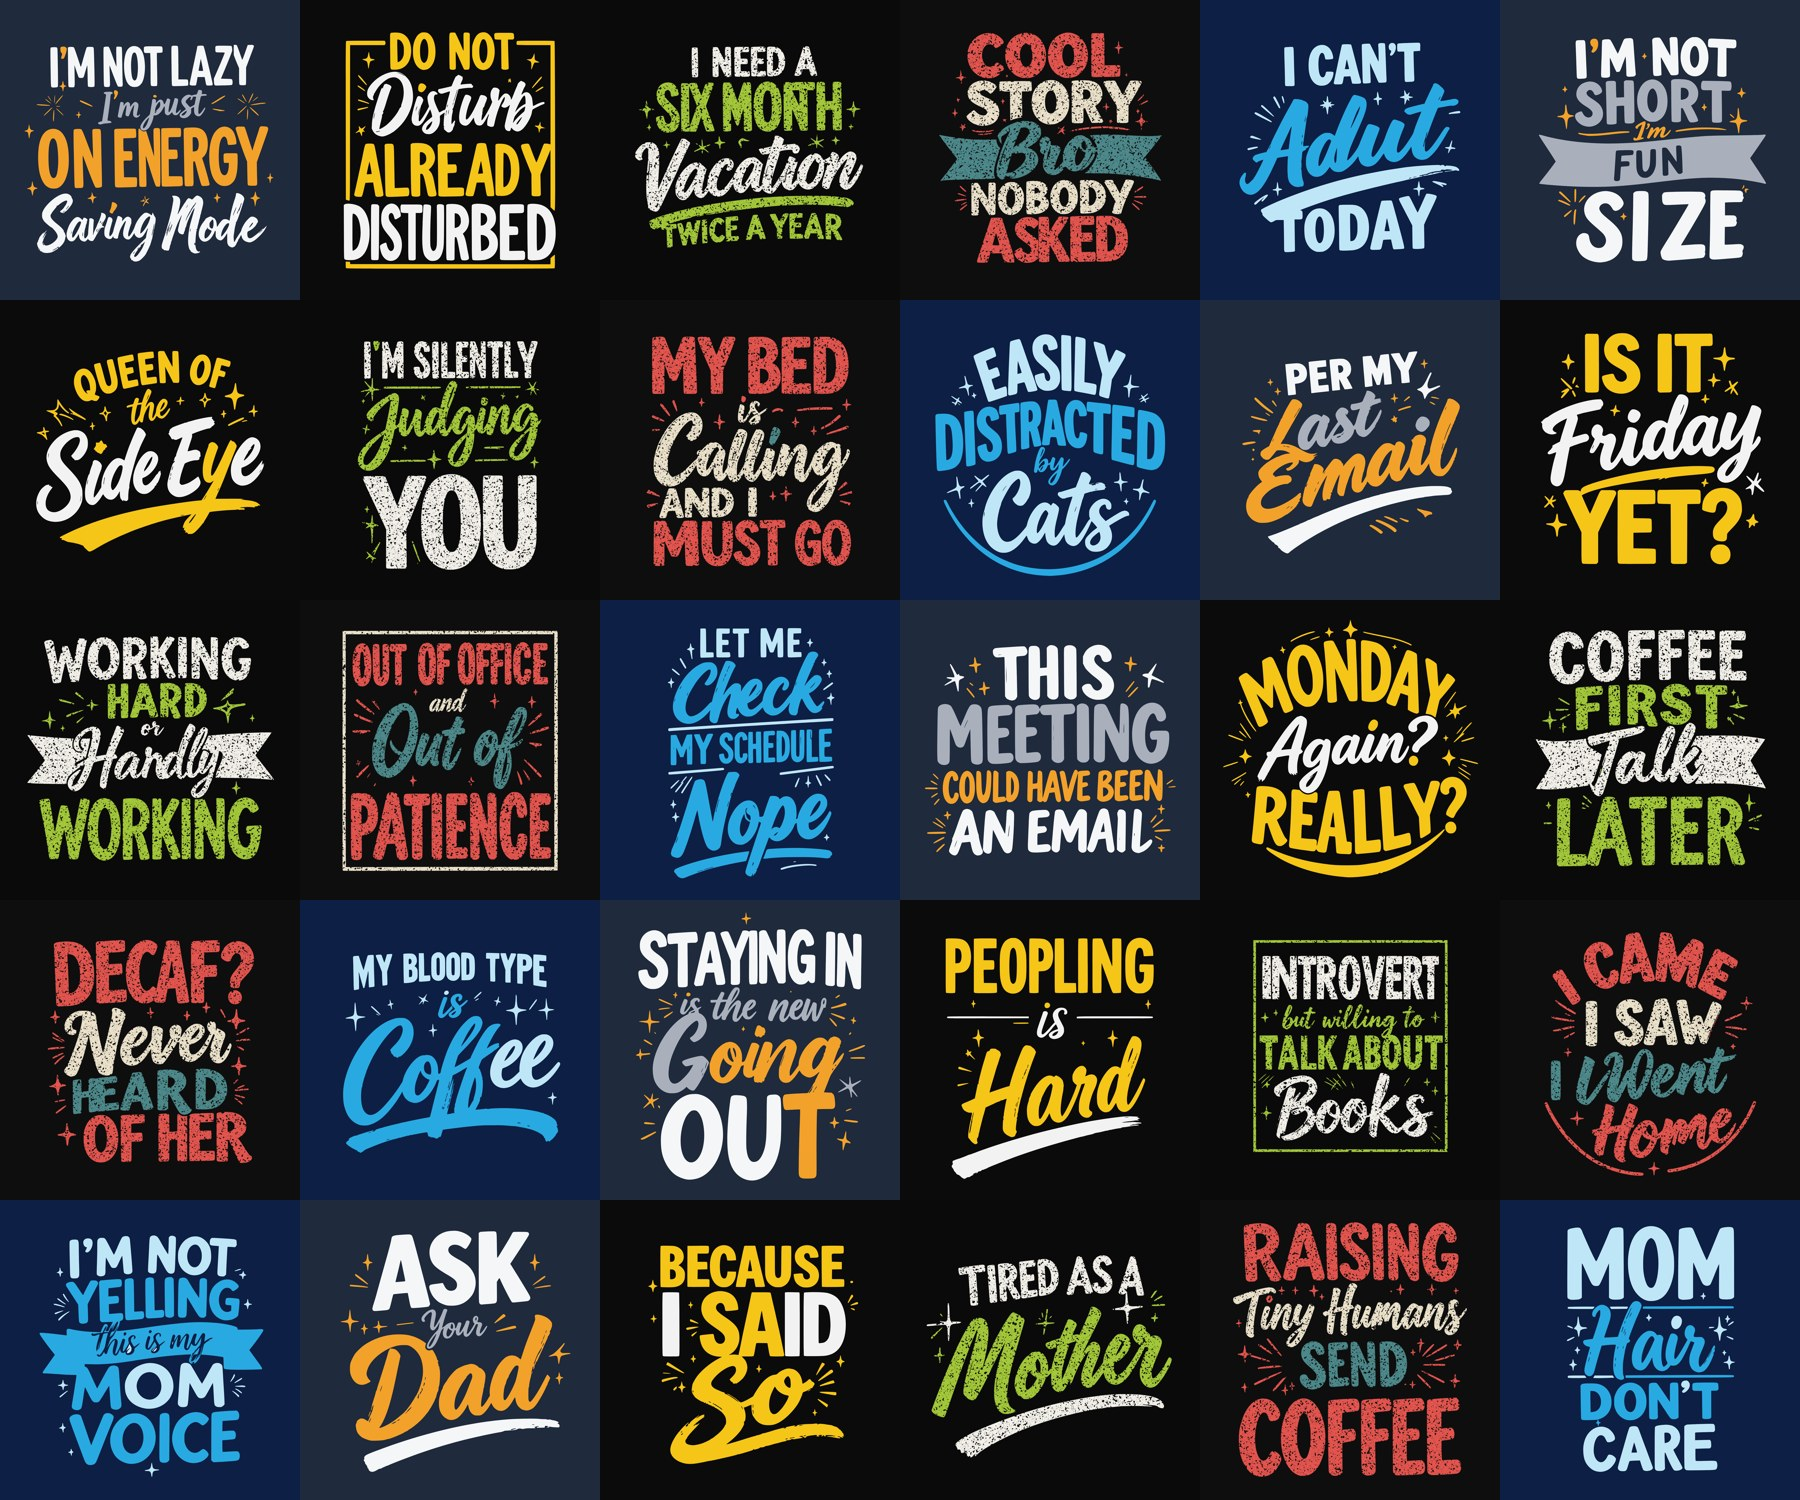
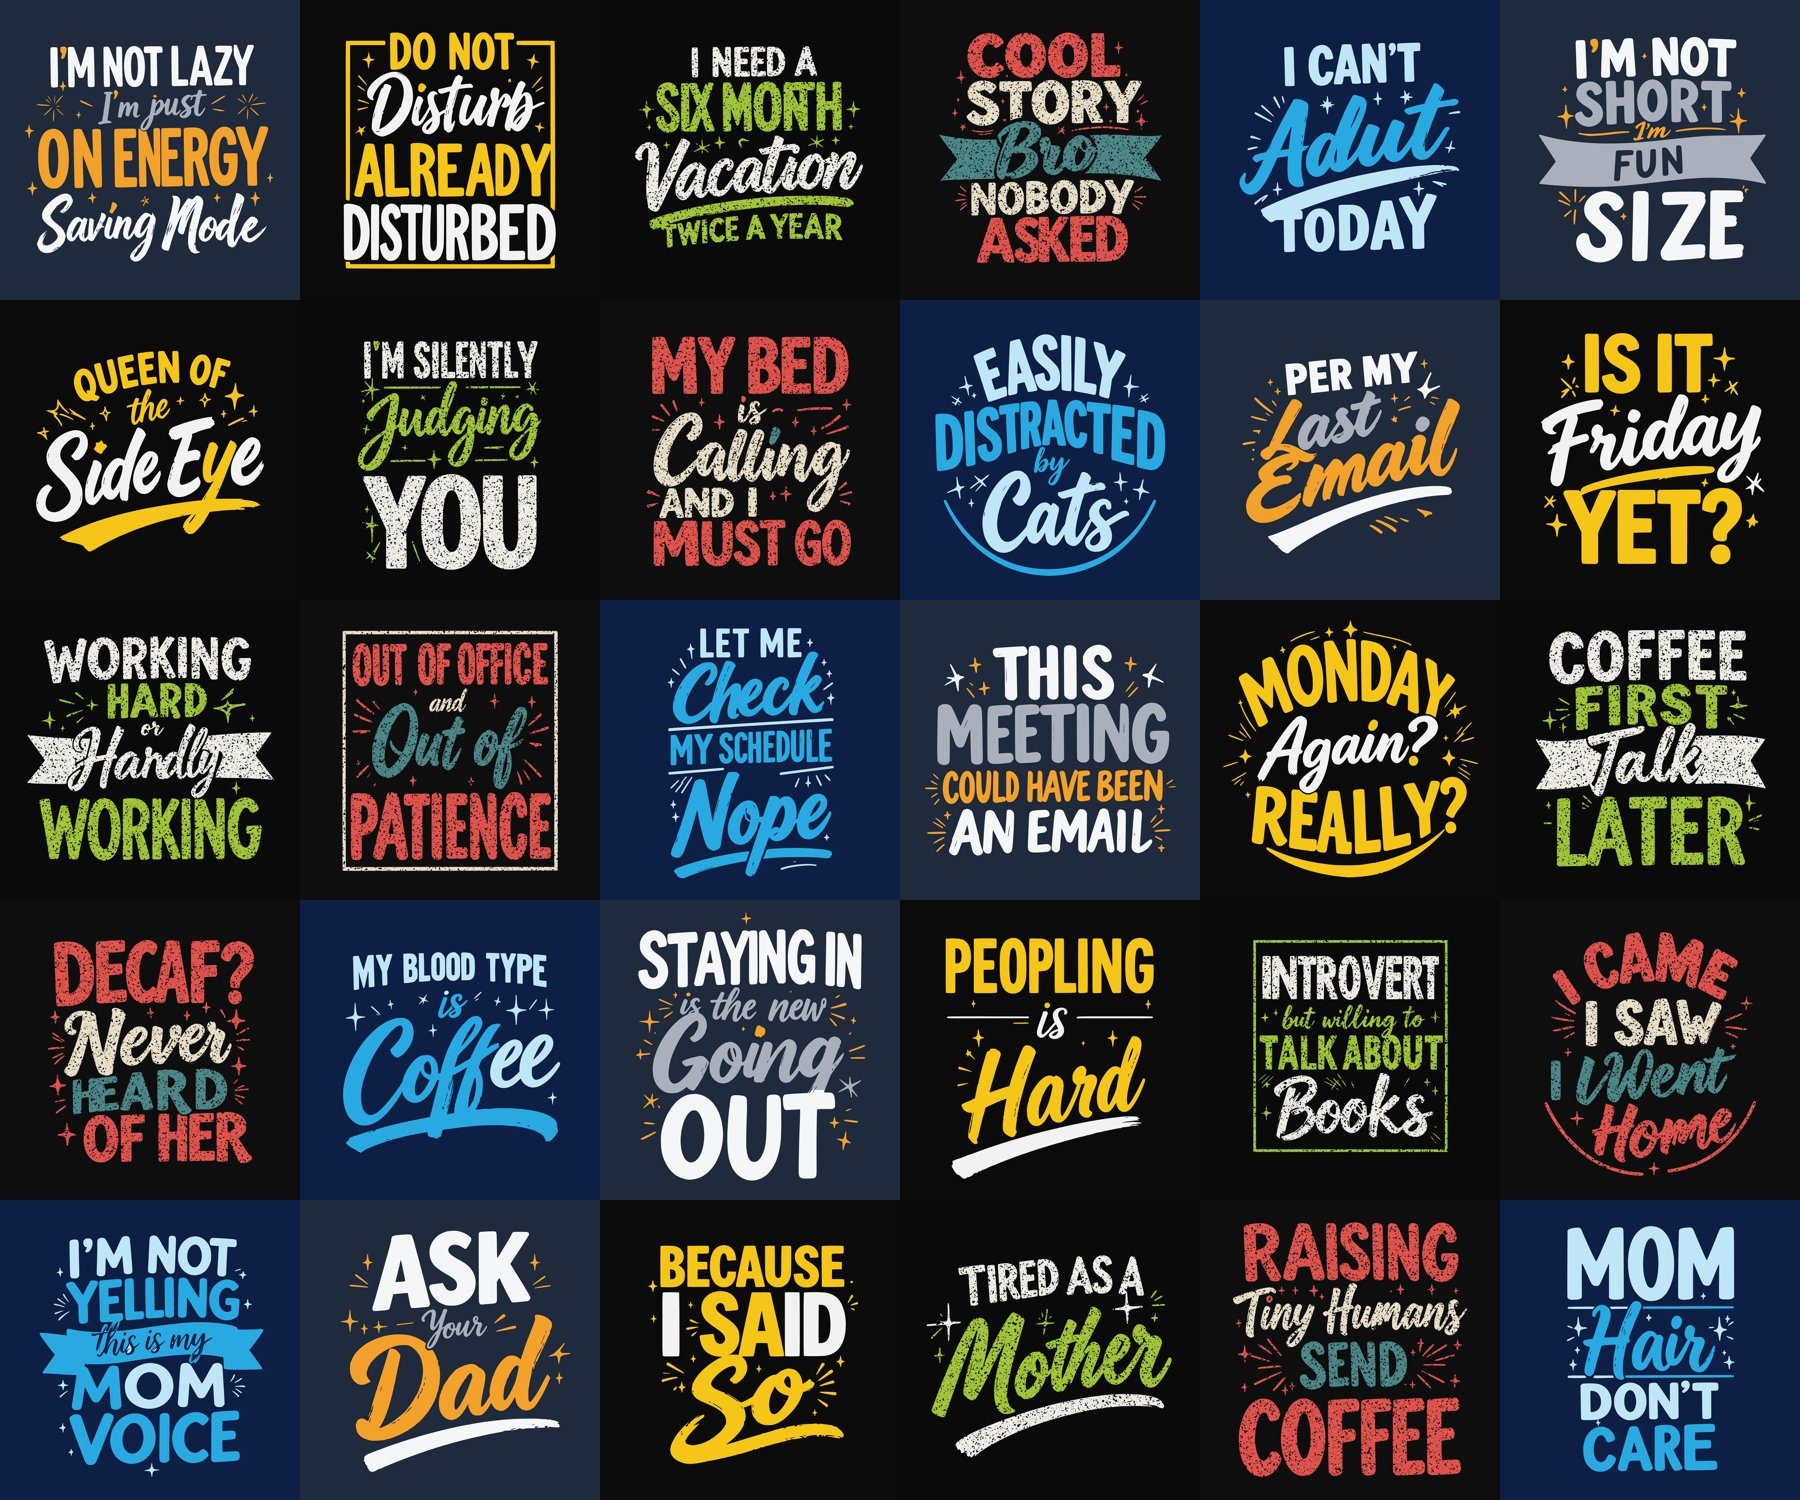
Recolor: keep script words one colour (merge contained lines, split Going/OUT)
Claude-Session: https://claude.ai/code/session_015DB7PEB3fi5hwGqehnw9eg

Changed region(s): [[0.3733, 0.6747, 0.4667, 0.7973], [0.8711, 0.92, 0.9644, 0.9813]]

diff --git a/scripts/recolor_sarkas.py b/scripts/recolor_sarkas.py
@@ -23,6 +23,8 @@ PAL = {
     'biru':   dict(bg='#0D1F45', seq=['#BFE6F7', '#29A9E1'], accent='#29A9E1', deco='#BFE6F7', grunge=False),
 }
 PNAMES = list(PAL)
+# design yang huruf dua barisnya bersambung (cth. 'Going' + 'OUT'): warna dipecah ikut baris per piksel
+SPLIT = {'stayin'}
 
 
 def line_colors(n, seq):
@@ -32,7 +34,7 @@ def line_colors(n, seq):
     return [seq[i % len(seq)] for i in range(n)]
 
 
-def recolor(img, pal, seed):
+def recolor(img, pal, seed, split=False):
     g = np.asarray(img.convert('L'), float) / 255.0
     h, w = g.shape
     alpha = np.clip((0.92 - g) / 0.84, 0, 1)
@@ -45,13 +47,16 @@ def recolor(img, pal, seed):
     min_a = 0.0012 * h * w
     kind = {}  # id -> 'deco' | 'accent' | line index
     texts = []
+    tall = []
     for i, sl in enumerate(objs, 1):
         hh = sl[0].stop - sl[0].start
         ww = sl[1].stop - sl[1].start
         if area[i - 1] < min_a:
             kind[i] = 'deco'
-        elif hh > 0.32 * h or (ww > 0.55 * w and area[i - 1] / (hh * ww) < 0.18):
+        elif (hh > 0.32 * h and (not split or area[i - 1] / (hh * ww) < 0.25)) or (ww > 0.55 * w and area[i - 1] / (hh * ww) < 0.18):
             kind[i] = 'accent'  # bingkai / swash panjang
+        elif hh > 0.32 * h and split:
+            tall.append(i)  # huruf dari dua baris yang bersambung; warna ikut baris terdekat per piksel
         else:
             texts.append((i, sl[0].start, sl[0].stop))
     # himpun komponen teks kepada baris ikut pertindihan menegak
@@ -66,6 +71,21 @@ def recolor(img, pal, seed):
         else:
             lines.append(dict(a=a, b=b, ids=[i]))
     lines.sort(key=lambda L: L['a'])
+    # gabung baris yang hampir terkandung dalam baris lain (huruf skrip tidak bersambung, cth. "Going")
+    merged = True
+    while merged:
+        merged = False
+        for x in range(len(lines)):
+            for y in range(x + 1, len(lines)):
+                A, B = lines[x], lines[y]
+                ov = min(A['b'], B['b']) - max(A['a'], B['a'])
+                if ov > 0.8 * min(A['b'] - A['a'], B['b'] - B['a']):
+                    A['ids'] += B['ids']; A['a'] = min(A['a'], B['a']); A['b'] = max(A['b'], B['b'])
+                    del lines[y]; merged = True
+                    break
+            if merged:
+                break
+    lines.sort(key=lambda L: L['a'])
     cols = line_colors(len(lines), pal['seq'])
     cmap = np.zeros((n + 1, 3))
     for i, k in kind.items():
@@ -75,7 +95,13 @@ def recolor(img, pal, seed):
             cmap[i] = H(c)
     # sebar label ke piksel tepi (anti-alias)
     _, (iy, ix) = ndi.distance_transform_edt(lab == 0, return_indices=True)
-    color = cmap[lab[iy, ix]]
+    near = lab[iy, ix]
+    color = cmap[near]
+    if tall and lines:
+        cy = np.array([(L['a'] + L['b']) / 2 for L in lines])
+        rowcol = np.array([H(cols[int(np.argmin(np.abs(cy - y)))]) for y in range(h)])
+        m = np.isin(near, tall)
+        color[m] = rowcol[np.nonzero(m)[0]]
     if pal['grunge']:
         rng = np.random.default_rng(seed)
         big = ndi.gaussian_filter(rng.random((h, w)), 3.0)
@@ -92,7 +118,7 @@ def main(src, dst):
     os.makedirs(dst, exist_ok=True)
     for k, did in enumerate(ORDER):
         pn = PNAMES[k % 5]
-        im, nl = recolor(Image.open(os.path.join(src, did + '.png')), PAL[pn], seed=k)
+        im, nl = recolor(Image.open(os.path.join(src, did + '.png')), PAL[pn], seed=k, split=did in SPLIT)
         im.save(os.path.join(dst, f'{did}.png'))
         print(f'{k + 1:2d} {did:12s} palet={pn:7s} baris={nl}')
 
